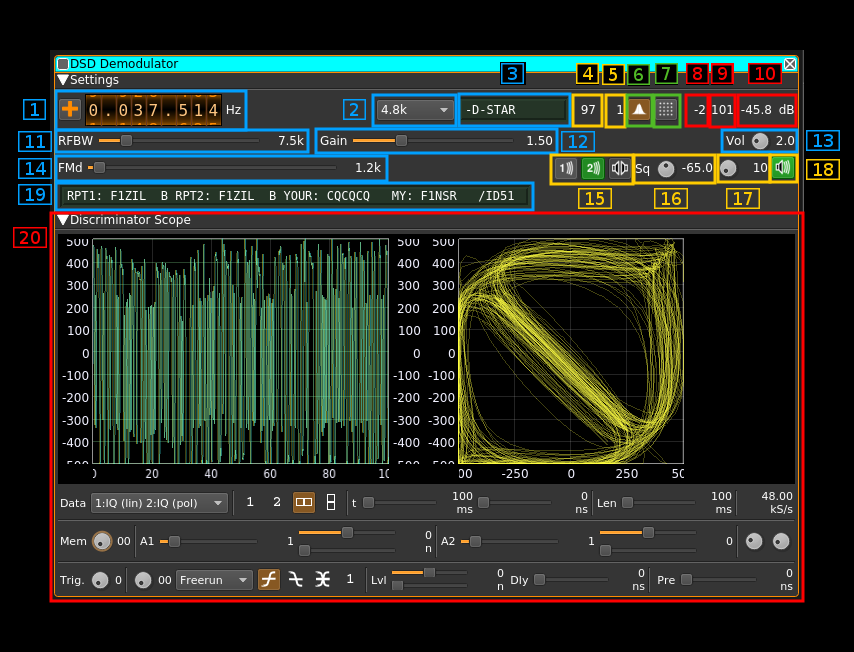
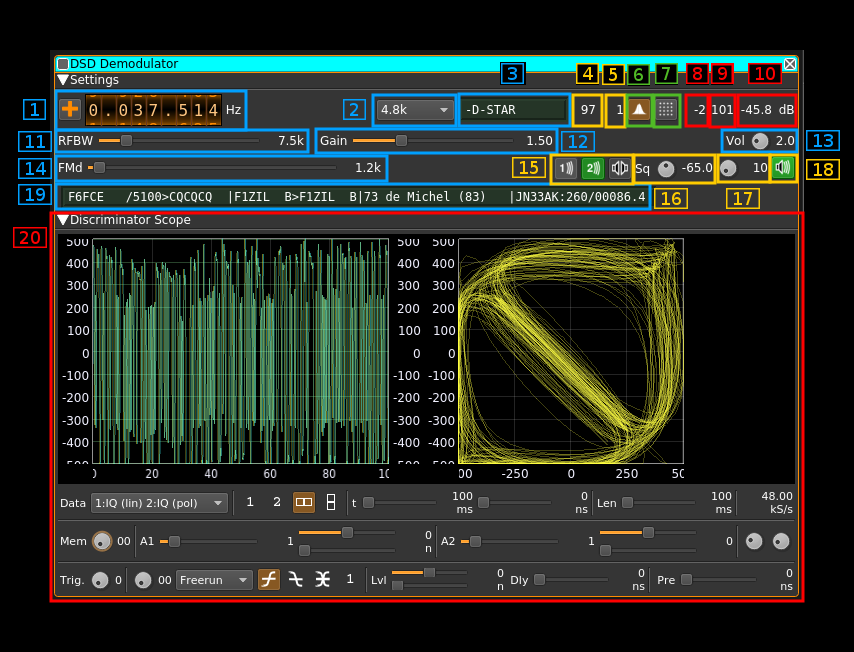
Updated main window and DSD demod plugin documentation with latest changes

Changed region(s): [[0.0609, 0.2147, 0.7916, 0.3374]]

diff --git a/plugins/channel/demoddsd/readme.md b/plugins/channel/demoddsd/readme.md
@@ -7,10 +7,10 @@ This plugin uses the [DSDcc](https://github.com/f4exb/dsdcc) library that has be
   - DMR/MOTOTRBO: ETSI two slot TDMA standard. MOTOTRBO is a popular implementation of this standard.
   - dPMR: Another ETSI standard at slower rate (2400 Baud / 6.25 kHz) and FDMA
   - D-Star: developed and promoted by Icom for Amateur Radio customers.
+  - Yaesu System Fusion (YSF): developed and promoted by Yaesu for Amateur Radio customers. Voice full rate with DV serial devices is not supported
 
 It can only detect the following standards (no data, no voice):
 
-  - Yaesu System Fusion (YSF): developed and promoted by Yaesu for Amateur Radio customers.
   - NXDN: A joint Icom (IDAS) and Kenwood (Nexedge) standard with 2400 and 4800 Baud versions.
 
 The modulation and standard is automatically detected and switched depending on the Baud rate chosen.
@@ -167,10 +167,26 @@ When the display is active the background turns from the surrounding gray color 
 
 These is the standard D-Star embedded information that is read from the header frame.
 
-<h5>19.1.1: Repeater 1 callsign</h5>
-<h5>19.1.2: Repeater 2 callsign</h5>
-<h5>19.1.3: Destination (your) callsign</h5>
-<h5>19.1.4: Origin (my) callsign</h5>
+<h5>19.1.1: Origin (my) and destination (your) callsign</h5>
+
+  - at the left of the `>` sign is the origin callsign with the 4 character informative suffix nest to the slash `/`
+  - at the right of the `>` sign is the destination callsign. As per Icom standard this is `CQCQCQ` when a call is made to all stations
+  - this information is retrieved from the header or the slow data if it can be decoded
+
+<h5>19.1.2: Repeater callsign</h5>
+
+  - at the left of the `>` sign is the origin repeater or `RPT1`
+  - at the right of the `>` sign is the destination repeater or `RPT2`
+  - this information is retrieved from the header or the slow data if it can be decoded
+
+<h5>19.1.3: Informative text</h5>
+
+When slow data can be decoded this is the 20 character string that is sent in the text frames 
+
+<h5>19.1.4: Geopositional data</h5>
+
+   - at the left of the colon `:` is the QTH 6 character locator a.k.a. Maidenhead locator
+   - at the right of the colon `:` is the bearing in degrees and distance in kilometers from the location entered in the main window `Preferences\My Position` dialog. The bearing and distance are separated by a slash `/`. 
 
 <h4>19.2: DMR status display</h4>
 
@@ -261,6 +277,57 @@ Sender's identification code in decimal (24 bits)
 <h5>19.3.4: Called ID</h5>
 
 Called party's identification code in decimal (24 bits)
+
+<h4>19.4: Yaesu System Fusion (YSF) status display</h4>
+
+![DSD YSF status](../../../doc/img/DSDdemod_plugin_ysf_status.png)
+
+<h5>19.4.1: FICH data</h5>
+
+This displays a summary of FICH (Frame Identification CHannel) block data. From left to right:
+
+  - Frame type:
+    - `H`: header
+    - `C`: channel (as in the example)
+    - `T`: terminator
+    - `S`: test
+    
+  - Channel type:
+    - `V1`: voice/data mode 1
+    - `V2`: voice/data mode 2 (as in the example)
+    - `VF`: voice full rate
+    - `DF`: data full rate
+     
+  - Call mode:
+    - `GC`: group call (as in the example)
+    - `RI`: radio ID
+    - `RE`: reserved
+    - `IN`: individual call
+    
+  - Number of total blocks and number of total frames separated by a colon `:`
+  
+  - Miscellaneous information in a single string
+    - First character is the bandwidth mode:
+      - `N`: narrow band mode
+      - `W`: wide band mode (as in the example)
+    - Second character is the path type:
+      - `I`: Internet path
+      - `L`: local path
+    - last three characters are the YSF squelch code (0..127) or dashes `---` if the YSF squelch is not active
+    
+<h5>19.4.2: Origin and destination callsigns</h5>
+
+  - at the left of the `>` sign is the origin callsign
+  - at the right of the `>` sign is the destination callsign. It is filled woth stars `*` when call is made to all stations (as the CQCQCQ in D-Star)
+
+<h5>19.4.3: Origin and destination repeaters callsigns</h5>
+
+  - at the left of the `>` sign is the origin repeater callsign
+  - at the right of the `>` sign is the destination repeater callsign. 
+
+<h5>19.4.4: Originator radio ID</h5>
+
+This is the unique character string assigned to the device by the manufacturer.
 
 <h3>20: Discriminator output scope display</h3>
 

diff --git a/sdrbase/readme.md b/sdrbase/readme.md
@@ -43,7 +43,8 @@ The following items are presented hierarchically from left to right:
    - Channels: the channels active for each device
   - Preferences:
    - Audio: opens a dialog to choose the audio output device
-   - DV serial: if you have one or more AMBE3000 serial devices for AMBE digital voice check to connect them. If unchecked DV decoding will resort to mbelib if available else no audio will be produced for AMBE digital voice
+   - DV Serial: if you have one or more AMBE3000 serial devices for AMBE digital voice check to connect them. If unchecked DV decoding will resort to mbelib if available else no audio will be produced for AMBE digital voice
+   - My Position: opens a dialog to enter your station ("My Position") coordinates in decimal degrees with north latitudes positive and east longitudes positive. This is used whenever positional data is to be displayed (APRS, DPRS, ...). For it now only works with D-Star $$CRC frames. 
   Help:
   - Laoded Plugins: shows details about the loaded plugins (see next)
   - About: current version and blah blah.    
